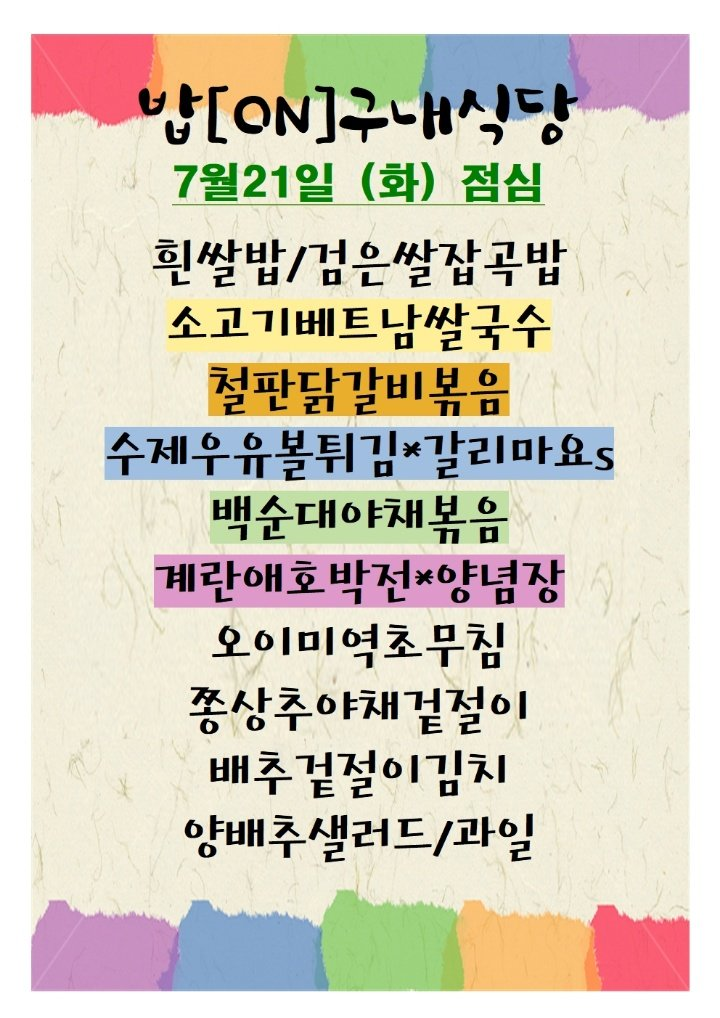
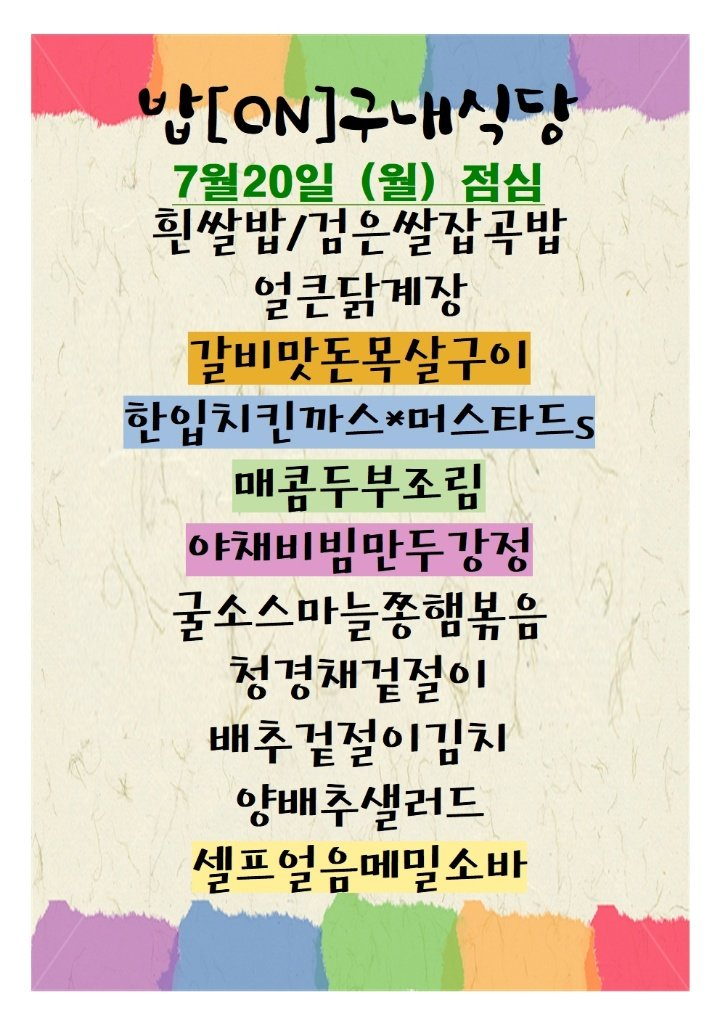
Update menu board assets

Changed region(s): [[0.1222, 0.1523, 0.8556, 0.8831]]

diff --git a/menu-today/index.html b/menu-today/index.html
@@ -209,7 +209,7 @@
 
     <section class="meta-bar">
       <div class="meta-card"><div class="meta-label">기준 날짜</div><div class="meta-value">2026년 7월 20일 월요일</div></div>
-      <div class="meta-card"><div class="meta-label">최종 가져온 시간</div><div class="meta-value">2026-07-20 10:48:19</div></div>
+      <div class="meta-card"><div class="meta-label">최종 가져온 시간</div><div class="meta-value">2026-07-20 12:07:56</div></div>
       <div class="meta-card"><div class="meta-label">확인 완료</div><div class="meta-value">9개 식당</div></div>
       <div class="meta-card"><div class="meta-label">준비중</div><div class="meta-value">3개 채널</div></div>
     </section>
@@ -245,7 +245,7 @@
             <div class="sub">가산 어반워크2</div>
           </div>
         </div>
-        <div class="menu-inline-image"><img src="./images/babon.png" alt="밥(온) 구내식당 식단 이미지"></div><div class="info-note">오늘 메뉴 미수집 상태입니다.</div>
+        <div class="menu-inline-image"><img src="./images/babon.png" alt="밥(온) 구내식당 식단 이미지"></div><ul><li>윈쌀밥 / 끔은쌀잡곡밥</li><li>얼콘닭계장</li><li>갈비맛돈목살구이</li><li>한입치킨까스*머스타드</li><li>매콤두부조림</li><li>야재비빔만두강정</li><li>굴소스마늘종램볶음</li><li>정경재겉절이</li><li>배추겉절이김재</li><li>양배 주생 ag</li><li>어크다계자</li><li>따비펫동목상쿠이</li></ul>
       </article>
 
       <article class="restaurant-card">
@@ -295,7 +295,7 @@
             <div class="sub">에이스테크노타워10차</div>
           </div>
         </div>
-        <div class="menu-inline-image"><img src="./images/thefoodsketch.png" alt="더푸드스케치 식단 이미지"></div><ul><li>소고기해장국</li><li>삼겹고추장불고기</li><li>후라이드치킨 / 치폴레S</li><li>김치전</li><li>간짜장</li><li>새우무조림</li><li>내 상추부추겉절이</li><li>가든샐러드 &amp; 드레싱</li><li>배추겉절이 / 음료</li></ul>
+        <div class="menu-inline-image"><img src="./images/thefoodsketch.png" alt="더푸드스케치 식단 이미지"></div><ul><li>소고기해장국</li><li>삼겹고추장불고기</li><li>후라이드치킨 / 치폴레S</li><li>김치전</li><li>간짜장</li><li>새우무조림</li><li>내 상추부추겉절이</li><li>가든샐러드 / 드레싱</li><li>배추겉절이 / 음료</li></ul>
       </article>
 
       <article class="restaurant-card">

diff --git a/guro-menu/index.html b/guro-menu/index.html
@@ -32,7 +32,7 @@
   </header>
   <section class="meta">
     <div><small>기준 날짜</small><strong>2026년 7월 20일 월요일</strong></div>
-    <div><small>최종 갱신</small><strong>2026-07-20 10:48:30</strong></div>
+    <div><small>최종 갱신</small><strong>2026-07-20 12:08:07</strong></div>
     <div><small>등록 식당</small><strong>5개</strong></div>
   </section>
   <div class="notice">공개 카카오 채널의 메뉴 이미지를 자동 수집하고 OCR로 정리합니다. 텍스트에 오타가 있을 수 있으니 식단 이미지를 함께 확인해 주세요.</div>
@@ -48,7 +48,7 @@
         </div>
         <img class="menu-image" src="./images/hanshin-it.png" alt="한신IT타워 구내식당 식단 이미지" loading="lazy">
         
-        <ul><li>콩나물밥*양념장</li><li>매콤닭볶음</li><li>참쌀탕수육*레온소스</li><li>마싸두우</li><li>브로콜리펜네흑임자</li><li>양넘고주지</li><li>돌자반흥고추무침</li><li>야채걸절이</li><li>포기김치</li><li>백미밥</li><li>양배추샐러드&amp;파인드레싱</li><li>탄산음료</li></ul>
+        <ul><li>콩나물밥*양념장</li><li>사누기공주우동</li><li>매콤닭볶음</li><li>브로콜리펜네흑임자</li><li>명엽채강정</li><li>돌자반고추무첨</li><li>야채겉절이</li><li>포기김치</li><li>양배추샐러드&amp;파인드레싱</li><li>탄산음료</li></ul>
       </article>
 
       <article class="restaurant-card">
